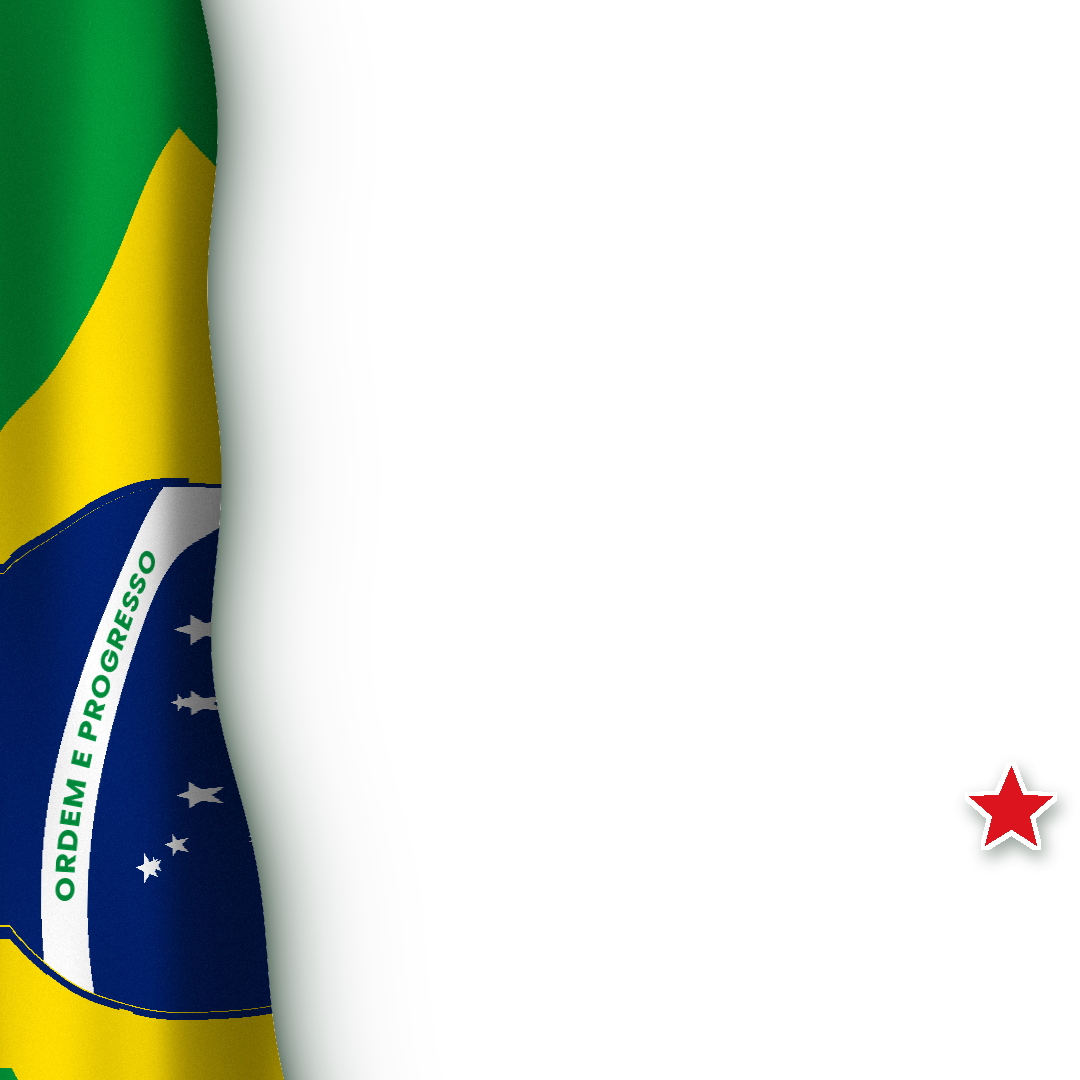
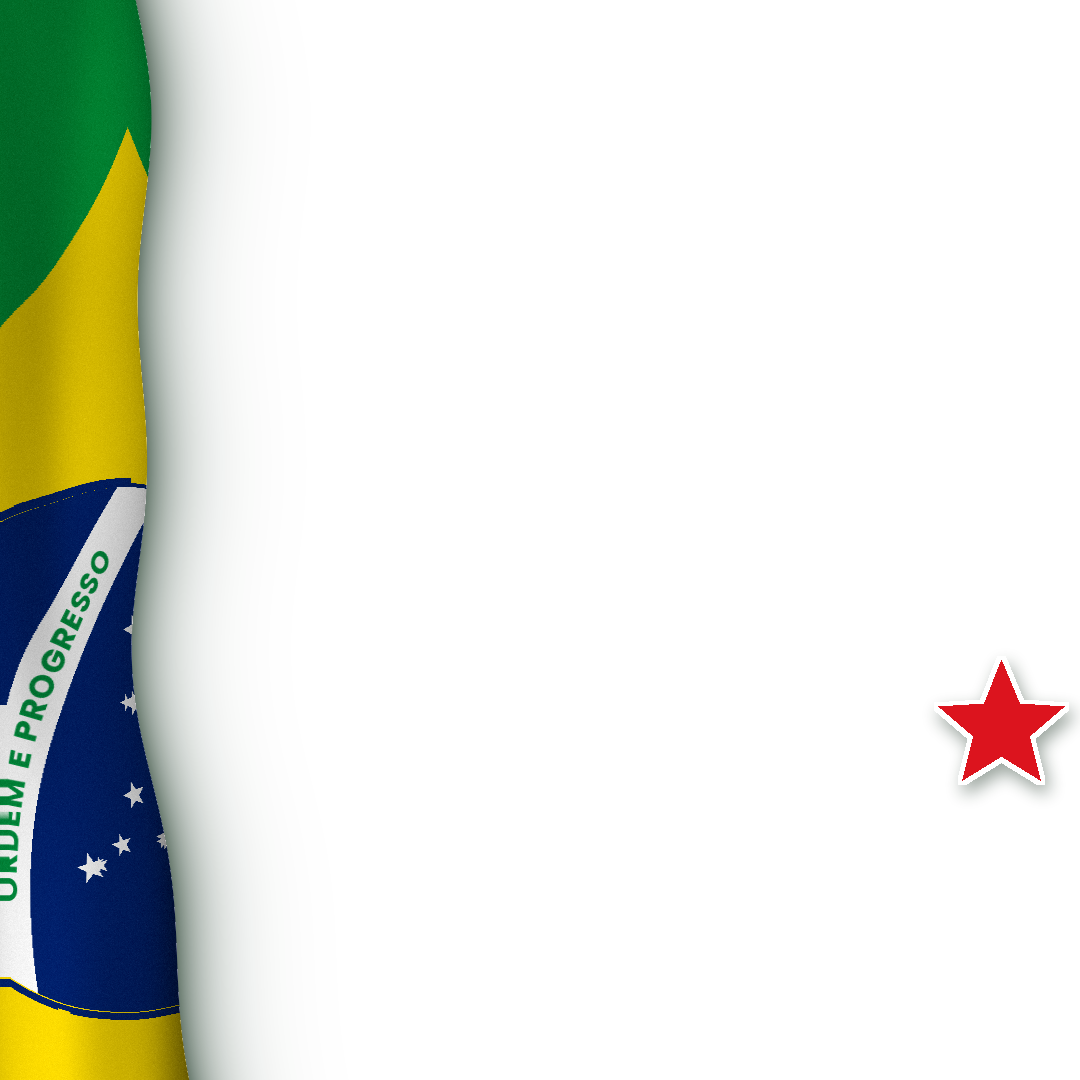
Mais destaque para mão e estrela

Changed region(s): [[0.0, 0.0, 0.3361, 1.0], [0.8556, 0.6111, 1.0, 0.7944], [0.0, 0.9778, 0.0306, 1.0]]

diff --git a/index.html b/index.html
@@ -171,10 +171,10 @@ footer a { color: var(--red); }
 (function () {
   const SIZES = { perfil: [1080, 1080], post: [1080, 1080], story: [1080, 1920] };
   const frames = {};
-  const HAND = {"post": {"x": 765, "y": 734, "w": 293, "h": 380}, "story": {"x": 711, "y": 1510, "w": 347, "h": 450}, "perfil": {"x": 610, "y": 762, "w": 254, "h": 330}};
+  const HAND = {"post": {"x": 684, "y": 634, "w": 378, "h": 490}, "story": {"x": 615, "y": 1392, "w": 447, "h": 580}, "perfil": {"x": 505, "y": 700, "w": 347, "h": 450}};
   const handImg = new Image(), handHl = new Image();
   handImg.onload = draw; handHl.onload = draw;
-  handImg.src = "frames/mao.png?v=12"; handHl.src = "frames/mao-brilho.png?v=8";
+  handImg.src = "frames/mao.png?v=13"; handHl.src = "frames/mao-brilho.png?v=8";
   let handColor = "#f7a632";
   const tint = document.createElement("canvas");
   function tintedHand(w, h) {
@@ -199,7 +199,7 @@ footer a { color: var(--red); }
   for (const k of Object.keys(SIZES)) {
     const im = new Image();
     im.onload = draw;
-    im.src = "frames/" + k + ".png?v=12";
+    im.src = "frames/" + k + ".png?v=13";
     frames[k] = im;
   }
 
